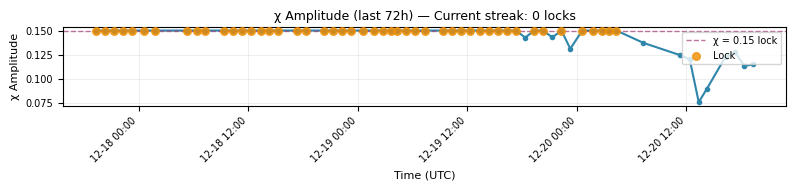
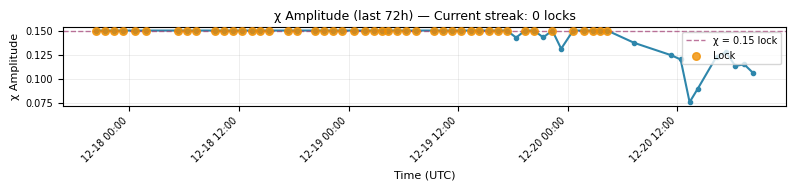
Vault Narrator: Auto-update 2025-12-20 21:04 UTC

diff --git a/LATEST_VAULT_STATUS.md b/LATEST_VAULT_STATUS.md
@@ -1,6 +1,6 @@
 # 🔐 VAULT STATUS REPORT
 
-**Generated:** 2025-12-20 20:05 UTC  
+**Generated:** 2025-12-20 21:04 UTC  
 **Data Source:** `data/cme_heartbeat_log_2025_12.csv`
 
 ---
@@ -11,14 +11,14 @@
 **Last Lock Timestamp:** 2025-12-20 04:20:00 UTC  
 
 **Latest Solar Wind Conditions:**  
-- Density: 16.12 p/cm³  
-- Speed: 424.0 km/s  
+- Density: 7.67 p/cm³  
+- Speed: 402.1 km/s  
 
 ---
 
 ## 🌞 NOAA SPACE WEATHER SUMMARIES
 
-- [SRS Report](reports/latest_srs.md) (fetched: 2025-12-20 20:05 UTC)  
+- [SRS Report](reports/latest_srs.md) (fetched: 2025-12-20 21:03 UTC)  
 - F10.7 Report: *not available*  
 
 ---
@@ -39,7 +39,6 @@
 
 | Time (UTC)          | χ Amplitude | Density (p/cm³) | Speed (km/s) | χ Status |
 |---------------------|-------------|-----------------|--------------|----------|
-| 2025-12-19 18:21:00 | 0.1427 | 1.33 | 490.4 | — |
 | 2025-12-19 19:20:00 | 0.1500 | 1.33 | 522.7 | ✅ LOCK |
 | 2025-12-19 20:19:00 | 0.1500 | 2.32 | 528.5 | ✅ LOCK |
 | 2025-12-19 21:19:00 | 0.1429 | 2.24 | 491.0 | — |
@@ -59,6 +58,7 @@
 | 2025-12-20 17:19:00 | 0.1276 | 13.33 | 454.3 | — |
 | 2025-12-20 18:21:00 | 0.1135 | 12.19 | 420.4 | — |
 | 2025-12-20 19:20:00 | 0.1150 | 16.12 | 424.0 | — |
+| 2025-12-20 20:20:00 | 0.1059 | 7.67 | 402.1 | — |
 
 ---
 
